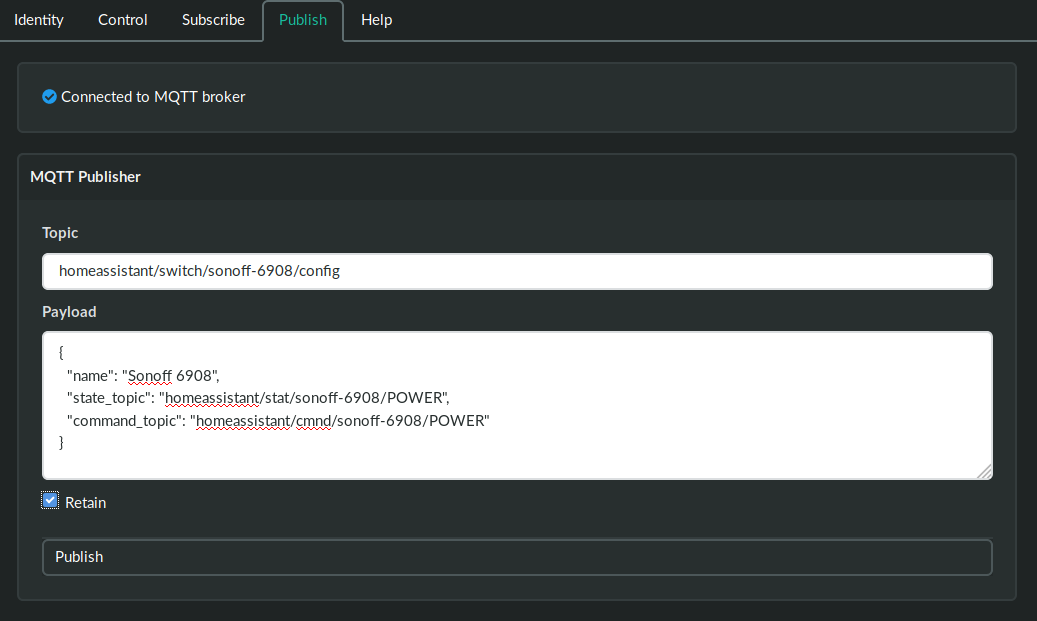
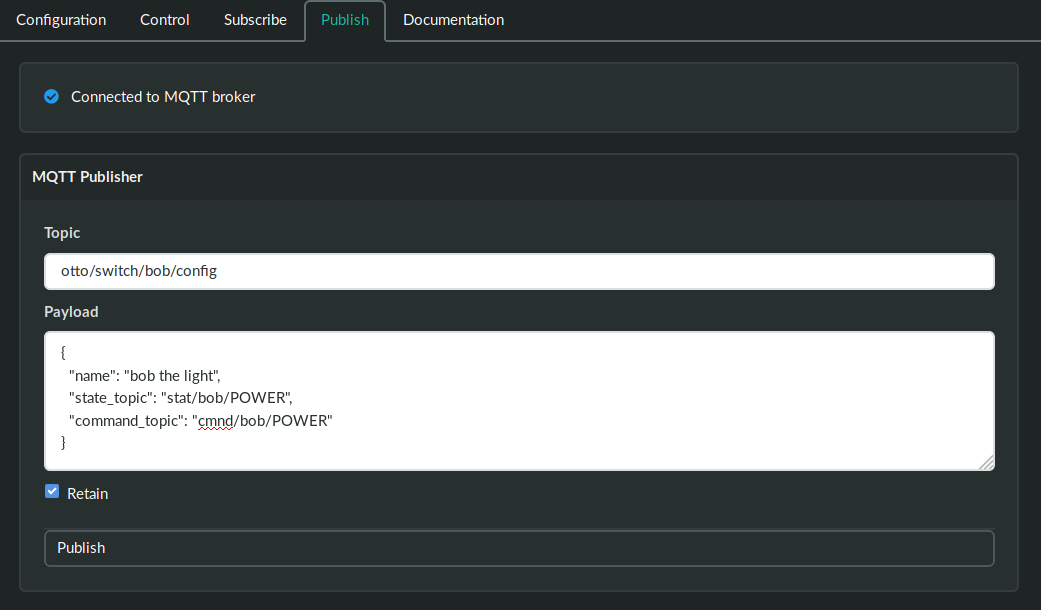
* Simplified documentation for Tasmota devices * Renamed identity panel to "configuration"

diff --git a/src/app/components/nav/nav.component.html b/src/app/components/nav/nav.component.html
@@ -11,7 +11,7 @@
   </div>
   <div class="dropdown-menu" id="dropdown-menu" role="menu">
     <div class="dropdown-content">
-      <a class="dropdown-item" routerLinkActive="is-active" (click)="toggleNavbar()" routerLink="/identity">Identity</a>
+      <a class="dropdown-item" routerLinkActive="is-active" (click)="toggleNavbar()" routerLink="/identity">Configuration</a>
       <a class="dropdown-item" routerLinkActive="is-active" (click)="toggleNavbar()" routerLink="/control">Control</a>
       <a class="dropdown-item" routerLinkActive="is-active" (click)="toggleNavbar()" routerLink="/subscribe">Subscribe</a>
       <a class="dropdown-item" routerLinkActive="is-active" (click)="toggleNavbar()" routerLink="/publish">Publish</a>
@@ -25,7 +25,7 @@
 <!-- desktop -->
 <div class="tabs is-boxed is-hidden-mobile">
   <ul>
-    <li routerLinkActive="is-active"><a routerLink="/identity">Identity</a></li>
+    <li routerLinkActive="is-active"><a routerLink="/identity">Configuration</a></li>
     <li routerLinkActive="is-active"><a routerLink="/control">Control</a></li>
     <li routerLinkActive="is-active"><a routerLink="/subscribe">Subscribe</a></li>
     <li routerLinkActive="is-active"><a routerLink="/publish">Publish</a></li>

diff --git a/src/assets/docs/tasmota.md b/src/assets/docs/tasmota.md
@@ -1,47 +1,53 @@
-The [Tasmota](https://github.com/arendst/Sonoff-Tasmota/wiki) project provides open source hardware for IoT devices. Once you have a Tasmota device up and running on your WiFI network it can be set up to run with ʘttʘ:
+The [Tasmota](https://github.com/arendst/Sonoff-Tasmota/wiki) project provides open source hardware for IoT devices. ʘttʘ can be used as a control panel for multiple Tasmota devices.
 
-#### Setting up the device
+#### Prerequisites
+
+ʘttʘ controls devices using MQTT over websockets, so you'll need an [MQTT broker with secure websockets enabled](http://www.steves-internet-guide.com/mqtt-websockets/).
+
+There is usually no need to install ʘttʘ itself, as it is freely available at [otto.zenly.xyz](https://otto.zenly.xyz/).
+
+#### Setting up a Tasmota device
+
+Once you have a Tasmota device up and running on your WiFI network it can be configured to run with ʘttʘ:
 
 1. From the device's web page, click on "Configuration" and then "Configure MQTT"
 1. Set up the Host, Port, Client, User and Password of your MQTT broker
-1. Change "Topic" to be a unique device name. For example "sonoff-6908" (see screenshot)
-1. Add your "Dsicovery Prefix" to the start of the "Full Topic". For example, if your discovery prefix is "homeassistant", the full topic should be "homeassistant/%prefix%/%topic%/"
+1. Change "Topic" to be a unique device name. For example "bob", in my case, because the light I want to control is called "bob" (don't ask me why)
 1. Click "save" and let the device restart
 1. ʘttʘ uses retained messages, so click on "Console", type in `PowerRetain 1` then press Enter to enable retained messages
-1. Now you need to create a configuration message on your MQTT broker to tell ʘttʘ all about your device. See the section below
+
 
 ![screenshot](/assets/docs/images/tasmota-screenshot.png)
 
+Now you need to create a configuration message on your MQTT broker to tell ʘttʘ all about your device. See the section below.
 
 #### Creating a Config Message for ʘttʘ
 
 ʘttʘ populates its control panel by reading retained configuration messages from your MQTT broker. We can tell ʘttʘ all about this device by publishing a message.
 
-For example, suppose we're using a "Discovery Prefix" in ʘttʘ of "homeassistant" and the Topic configured on the device is "sonoff-6908", then we should publish a message like this:
+For example, suppose we're using a "Discovery Prefix" in ʘttʘ of "otto" (configured from the "Configuration" tab in ʘttʘ) and the Topic configured on the device is "bob", then we should publish a message like this:
 
 
-Topic: __homeassistant/switch/sonoff-6908/config__
+Topic: __otto/switch/bob/config__
 
 Payload (change the state and command topic prefixes as appropriate):
 ```
 {  
-  "name": "Sonoff 6908",
-  "state_topic": "homeassistant/stat/sonoff-6908/POWER",
-  "command_topic": "homeassistant/cmnd/sonoff-6908/POWER"
+  "name": "bob the light",
+  "state_topic": "stat/bob/POWER",
+  "command_topic": "cmnd/bob/POWER"
 }
 ```
 __Retain__ should set to true
 
-
-Note that the "name" field is the text displayed in ʘttʘ. It can be whatever makes sense for your device, such as "sprinkler system", or "attack robot".
-
-ʘttʘ's "Publish" panel can be used to publish this message, like this:
+Once ʘttʘ is configured to connect to your message broker, you can use the "Publish" panel to add the retained message:
 
 ![screenshot](/assets/docs/images/tasmota-otto-config.png)
 
+_For details of the MQTT message flow for Tasmota devices, see the [Sonoff-Tasmota Wiki](https://github.com/arendst/Sonoff-Tasmota/wiki/MQTT-Overview)_
 
 #### Testing it out
 
-Refresh the ʘttʘ website and you should now see the device show up in ʘttʘ's "Contol" panel, all ready to use.
+Refresh the ʘttʘ control panel and you should now see the device show up in ʘttʘ's "Contol" panel, all ready to use.
 
 ![screenshot](/assets/docs/images/tasmota-otto-switch.png)

diff --git a/src/assets/docs/quickstart.md b/src/assets/docs/quickstart.md
@@ -1,6 +1,6 @@
 ## Prerequisites
 
-1. [MQTT server with secure websockets enabled](http://www.steves-internet-guide.com/mqtt-websockets/)
+1. [MQTT broker with secure websockets enabled](http://www.steves-internet-guide.com/mqtt-websockets/)
 1. Some sort of device or sensor that's connected to your MQTT broker.
 
 There is no need to install ʘttʘ itself, as it is freely available at [otto.zenly.xyz](https://otto.zenly.xyz/).
@@ -9,10 +9,10 @@ There is no need to install ʘttʘ itself, as it is freely available at [otto.ze
 
 ʘttʘ gets its configuration from two places:
 
-1. The [identity tab](/identity), where you configure a connection to the MQTT broker. These settings are stored in your browser.
+1. The [configuration tab](/identity), where you configure a connection to the MQTT broker. These settings are stored in your browser.
 1. Retained messages from your MQTT broker.
 
-First, navigate to the [identity](identity) tab and enter details of your MQTT server.
+First, navigate to the [configuration](identity) tab and enter details of your MQTT server.
 
 Now you'll need to add retained messages to inform ʘttʘ about topics it can use to read and control devices. See the [discovery](/docs/discovery/) page.
 
